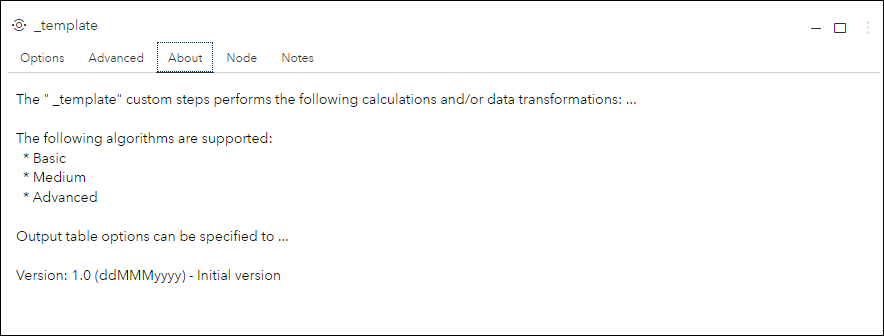
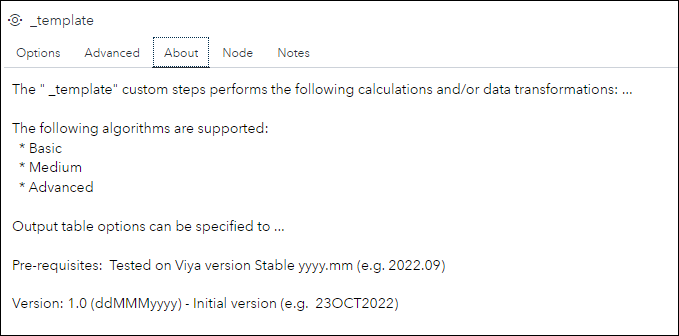
Added pre-req section to About box of _template.step
Added pre-req section to About box of _template.step and updated related text in README.md

diff --git a/_template/README.md b/_template/README.md
@@ -33,6 +33,10 @@ The **_template** custom step enables SAS Studio users to ...
 
 > Does you custom step require specific products to be installed, or has other dependencies the user should know about, then mention them here. - ***Remove this line*** 
 
+> If your step does not have any specific Viya version pre-reqs then simply state "No specific Viya version requirements" - *** Remove this line ***
+
+> Note: This information should also be provided in the About box of your custom step UI. -  *** Remove this line ***
+
 ## Usage
 
 > Optional: Create an animated gif that quickly demos your custom step and its results using a dedicated flow and store it in the **img** folder
